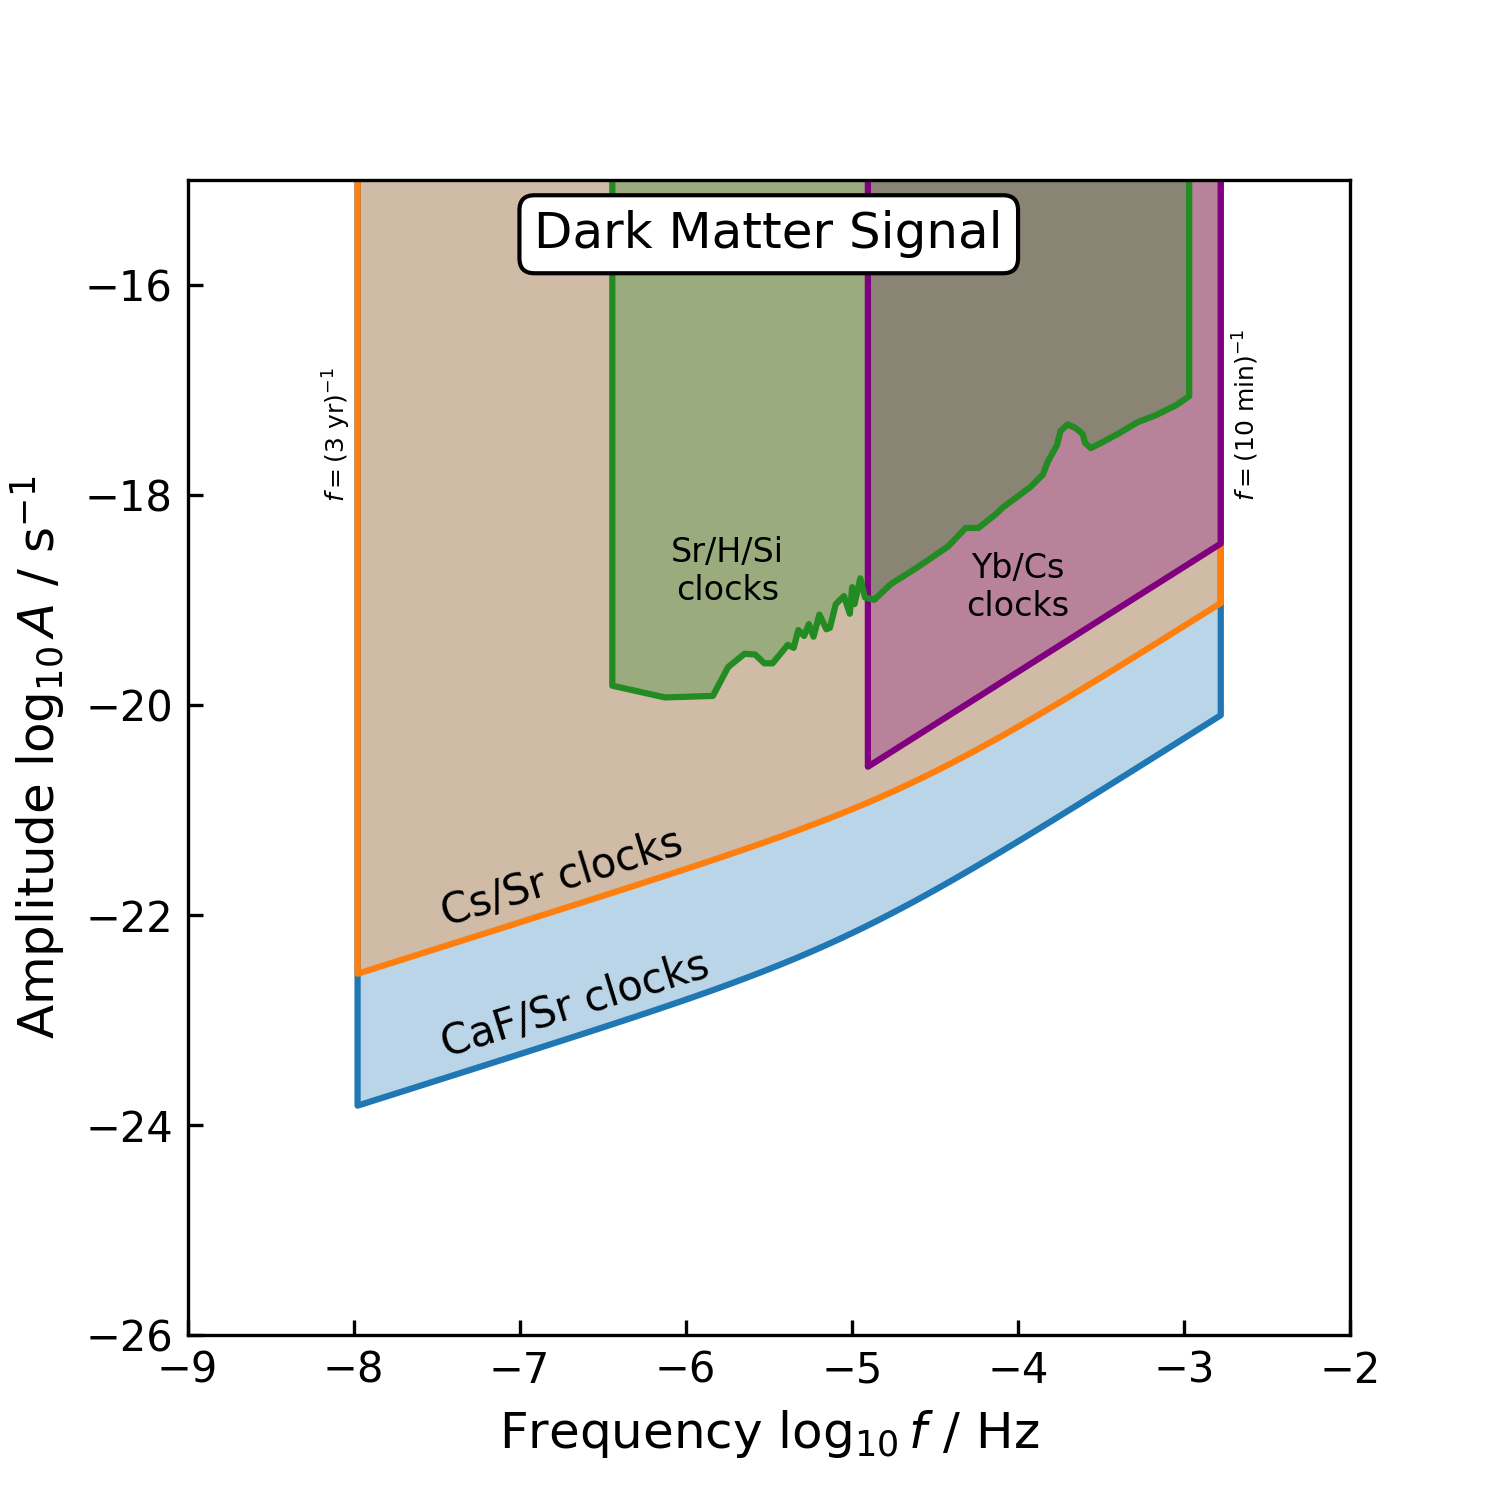
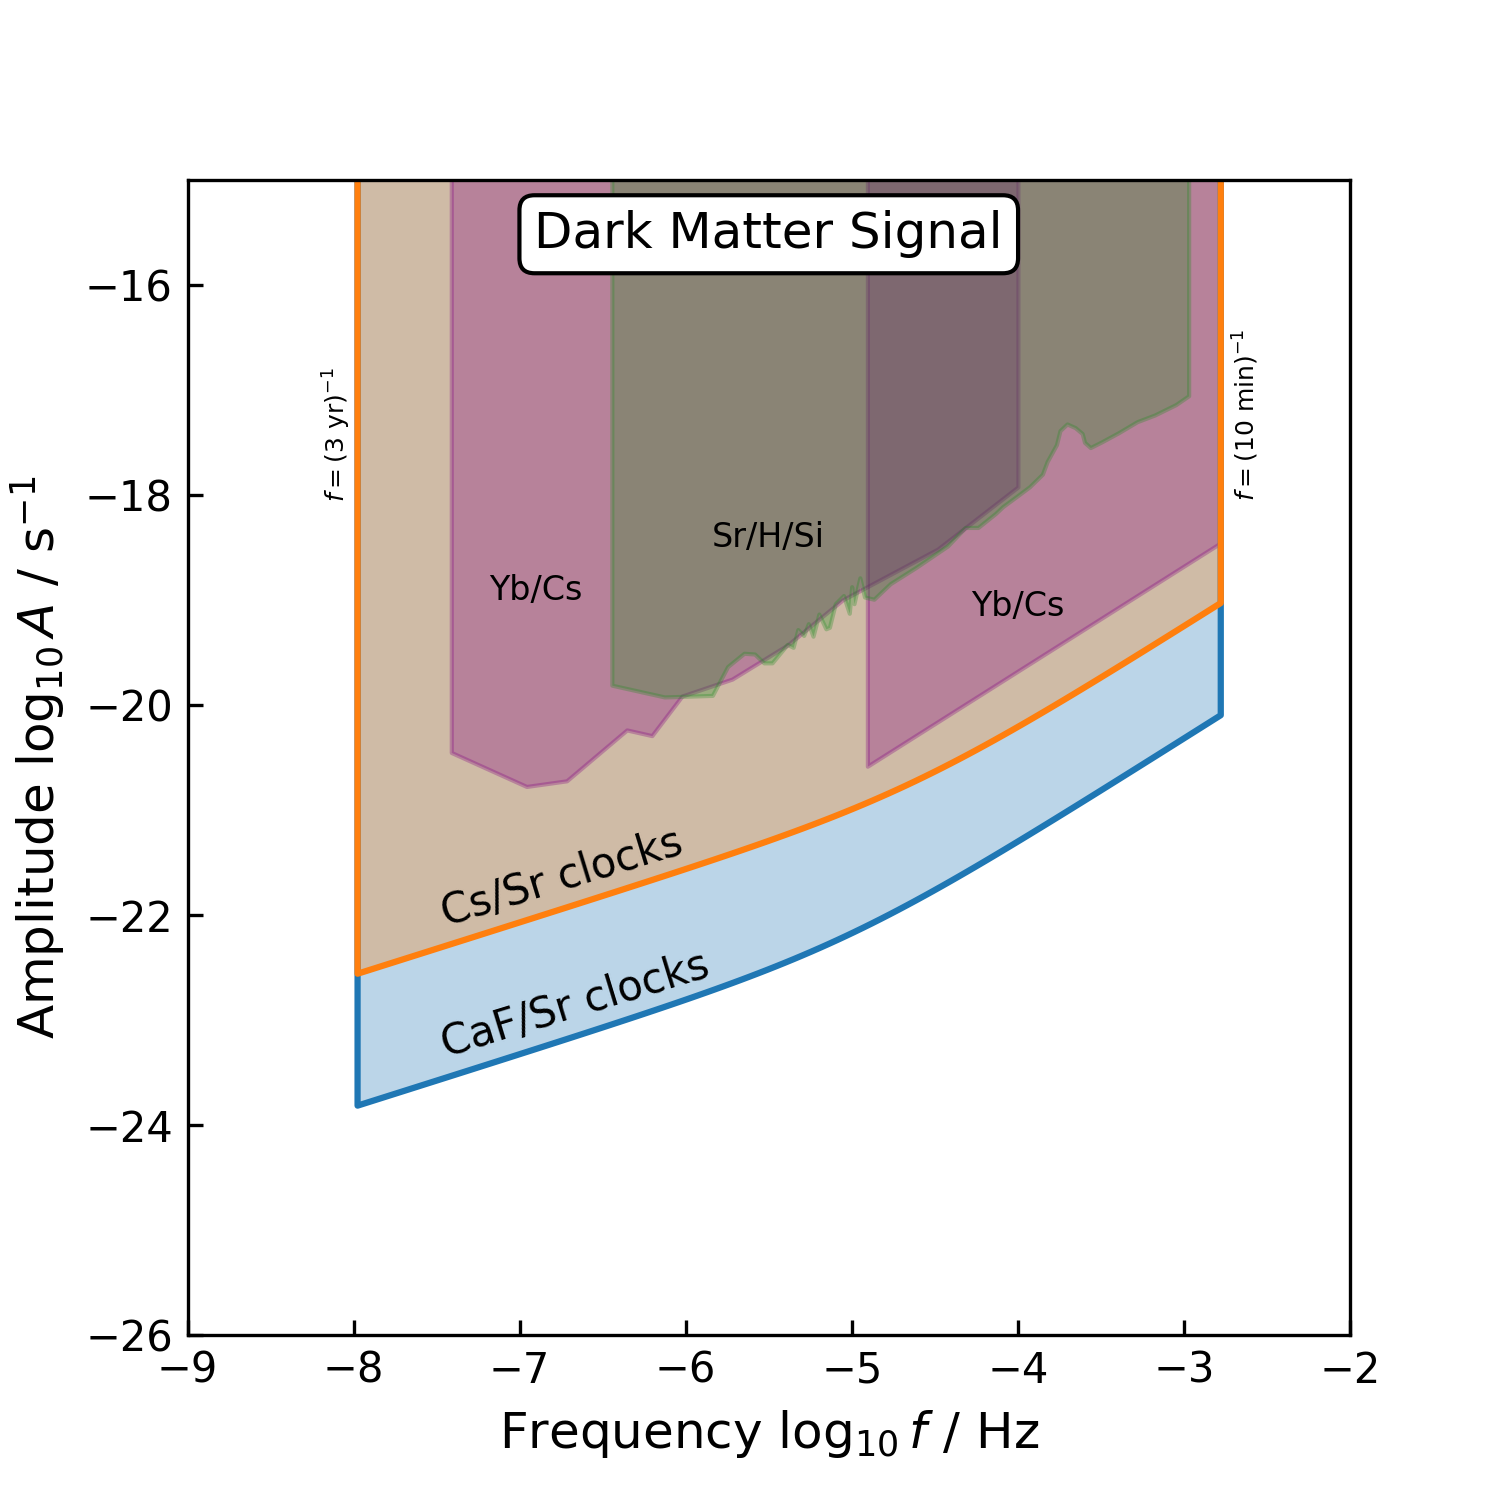
ULDM bounds
NANOGrav and Yb/Cs (Kobayashi et al)

diff --git a/plot_DM.py b/plot_DM.py
@@ -56,21 +56,48 @@ def clock_bound_ULDM(clocks, color):
 
     x,y = np.log10(m), np.log10(M / Mpl)
 
-    # Add points to the ends so the outline covers the sides
-    # This looks better than plt.vlines(),
-    # as it takes care of the corners
-    x = np.concatenate( ([x[0]], x, [x[-1]]) )
-    y = np.concatenate( ([0], y, [0]) )
-
-    plt.plot(x, y, color=color)
-    plt.fill_between(x, 0, y, alpha=0.3, color=color)
+    if clocks == 'Sherrill':
+        po.shade_below(x, y, color=color, alpha=0.3, boundary=False)
+    else:
+        po.shade_below(x, y, color=color, alpha=0.3)
     return
+
+
+# Yb/Cs
+x, y = bounds.YbCs_ULDM()
+x = np.log10(x)
+y = np.log10(y / Mpl)
+po.shade_below(x, y, 'purple', boundary=False, alpha=0.5)
+plt.text(-21.1, 5.25, "Yb/Cs", fontsize=8, ha='center')
+#plt.text(-21, 4.85, "(Kobayashi\net al)", fontsize=6, ha='center')
+
+# H/Si clocks
+x, y = bounds.HSi_ULDM()
+x = np.log10(x)
+y = np.log10(y / Mpl)
+
+po.shade_below(x, y, 'forestgreen', boundary=False, alpha=0.5)
+
+plt.text(-19.9, 4, "Sr/H/Si", fontsize=8, ha='center')
+
+# NANOGrav
+x, y = bounds.NANOGrav_ULDM()
+x = np.log10(x)
+y = np.log10(y / Mpl)
+po.shade_below(x, y, 'darkblue', boundary=False, alpha=0.5)
+plt.text(-23.1, 6, "NANOGrav", fontsize=8, ha='center')
 
 # Clocks
 clock_bound_ULDM('CaF/Sr', po.colorcycle[0])
 clock_bound_ULDM('Cs/Sr', po.colorcycle[1])
-
 clock_bound_ULDM('Sherrill', 'purple')
+
+# Text labels for clocks
+plt.text(-22, 7.5, "CaF/Sr clocks", fontsize=10, rotation=-34)
+plt.text(-22, 6.35, "Cs/Sr clocks", fontsize=10, rotation=-34)
+plt.text(-18.55, 4.25, 'Yb/Cs', ha='center', fontsize=8)
+#plt.text(-18.55, 4.1, '(Sherrill et al)', ha='center', fontsize=6)
+
 
 # CMB
 col = 'brown'
@@ -80,25 +107,7 @@ plt.contourf(X, Y, Z, levels = [0.5, 1], alpha = 0.3, colors=col)
 
 plt.text(-24.25, 6, r'CMB & LSS', rotation='vertical', fontsize=8)
 
-# H/Si clocks
-x, y = bounds.HSi_ULDM()
-x = np.log10(x)
-y = np.log10(y / Mpl)
 
-x = np.concatenate( ([x[0]], x, [x[-1]]) )
-y = np.concatenate( ([0], y, [0]) )
-
-col = 'forestgreen'
-plt.plot(x, y, color=col)
-plt.fill_between(x, -100, y, color=col, alpha=0.3)
-
-plt.text(-20.2, 4, "Sr/H/Si\nclocks", fontsize=8, ha='center')
-
-
-# Text labels for clocks
-plt.text(-22, 7.5, "CaF/Sr clocks", fontsize=10, rotation=-34)
-plt.text(-22, 6.35, "Cs/Sr clocks", fontsize=10, rotation=-34)
-plt.text(-18.65, 4.25, 'Yb/Cs\nclocks', ha='center', fontsize=8)
 
 # Microscope
 col = 'gray'
@@ -178,11 +187,10 @@ def draw_raw_clock_bound(clocks, color):
     x = np.log10(f_vals)
     y = np.log10(A_vals)
 
-    x = np.concatenate( ([x[0]], x, [x[-1]]) )
-    y = np.concatenate( ([0], y, [0]) )
-
-    plt.plot(x, y, color=color)
-    plt.fill_between(x, y, 0, alpha=0.3, color=color)
+    if clocks == 'Sherrill':
+        po.shade_above(x, y, color, alpha=0.3, boundary=False)
+    else:
+        po.shade_above(x, y, color, alpha=0.3)
     return
 
 # Clock bounds
@@ -192,21 +200,25 @@ draw_raw_clock_bound('Sherrill', 'purple')
 
 plt.text(-7.5, -23.35, "CaF/Sr clocks", fontsize=10, rotation=17)
 plt.text(-7.5, -22.1, "Cs/Sr clocks", fontsize=10, rotation=17)
-plt.text(-4, -19.15, 'Yb/Cs\nclocks', ha='center', fontsize=8)
+plt.text(-4, -19.15, 'Yb/Cs', ha='center', fontsize=8)
+
+
+# Yb/Cs bounds
+x, y = bounds.YbCs_amplitude()
+x = np.log10(x)
+y = np.log10(y)
+
+po.shade_above(x, y, 'purple', boundary=False)
+plt.text(-6.9, -19, "Yb/Cs", fontsize=8, ha='center')
+#plt.text(-7, -19.3, "Kobayashi et al", fontsize=6, ha='center')
 
 # H/Si bounds
 x, y = bounds.HSi_amplitude()
 x = np.log10(x)
 y = np.log10(y)
 
-x = np.concatenate( ([x[0]], x, [x[-1]]) )
-y = np.concatenate( ([0], y, [0]) )
-
-col = 'forestgreen'
-plt.plot(x, y, color=col)
-plt.fill_between(x, y, 100, color=col, alpha=0.3)
-
-plt.text(-5.75, -19, "Sr/H/Si\nclocks", fontsize=8, ha='center')
+po.shade_above(x, y, 'forestgreen', boundary=False)
+plt.text(-5.5, -18.5, "Sr/H/Si", fontsize=8, ha='center')
 
 # Labels etc
 plt.text(-2.72, -18, r"$f = (10~\mathrm{min})^{-1}$",
@@ -228,4 +240,4 @@ plt.text(x_pos, -15.65, "Dark Matter Signal",
 
 plt.savefig("plots/DM_A_vs_f.png", dpi=po.dpi_setting)
 
-#plt.show()
+plt.show()

diff --git a/theory/bounds.py b/theory/bounds.py
@@ -65,13 +65,12 @@ def planck(w):
 def DM_CMB(m):
     return m < 1e-24
 
-def HSi_ULDM():
-    """ H/Si clock bounds
-    https://arxiv.org/pdf/2008.08773
-    Converts to our M_eff coupling.  Returns an array of m values,
-    and an array of the corresponding M_eff values that are the bound.
+
+def load_amplitude_helper(fname):
     """
-    fname = 'theory/H-Si_data.csv'  # data file
+    Load a .csv file of m, d_m_e values.
+    Convert to M_eff.
+    """
 
     # m is in eV, d_m_e is dimensionless
     # both are the log10 of their real values
@@ -91,14 +90,13 @@ def HSi_ULDM():
     M_eff = np.sqrt(2) * Mpl / d_m_e
     return m, M_eff
 
-def HSi_amplitude():
-    """ Generalized amplitude measurement from the H/Si bounds.
-    Converts from the Meff bound to our generalized signal
+def Meff_to_amplitude(m, M_eff):
+    """ Generalized amplitude measurement bounds 
+    Converts from the m, Meff bound to our generalized signal
         delta mu / mu = A / w cos(w t)
     Returns the frequency f and corresponding A values.
     Both are in units of s^-1
     """
-    m, M_eff = HSi_ULDM()
     
     f = m / (2*PI)
     A = np.sqrt(2 * rho_DM_local) / M_eff
@@ -108,4 +106,32 @@ def HSi_amplitude():
     A *= c / hbar
 
     return f, A
+
+def HSi_ULDM():
+    """ H/Si clock bounds
+    https://arxiv.org/pdf/2008.08773
+    Converts to our M_eff coupling.  Returns an array of m values,
+    and an array of the corresponding M_eff values that are the bound.
+    """
+    return load_amplitude_helper('theory/H_Si.csv')
+
+def HSi_amplitude():
+    """
+    Converts H/Si bound to frequency and amplitude bounds.
+    """
+    m, M_eff = HSi_ULDM()
+    return Meff_to_amplitude(m, M_eff)
+
+def YbCs_ULDM():
+    """ https://arxiv.org/pdf/2212.05721 """
+    return load_amplitude_helper('theory/Yb_Cs.csv')
+
+def YbCs_amplitude():
+    m, M_eff = YbCs_ULDM()
+    return Meff_to_amplitude(m, M_eff)
+
+
+def NANOGrav_ULDM():
+    """ https://arxiv.org/abs/2306.16219 """
+    return load_amplitude_helper('theory/NANOGrav.csv')
 

diff --git a/plot_options.py b/plot_options.py
@@ -8,11 +8,13 @@
 
 import matplotlib.pyplot as plt
 
+import numpy as np
+
 # Number of grid points in the plots.
 # Around 1k looks ok and is fast.
 # Set this to a high value (~10k) for the final versions
 # of the plots.
-resolution = 5000
+resolution = 1000
 
 # Color scheme
 colorcycle = plt.rcParams['axes.prop_cycle'].by_key()['color']
@@ -23,3 +25,30 @@ figsize = (5, 5)
 dpi_setting = 300
 
 title_box_properties = dict(boxstyle='round', facecolor = "white", alpha=1.0)
+
+def shade_below(x, y, color, alpha=0.3, boundary=True):
+    """ Plot a curve, and shade below it. """
+
+    # Add points to the ends so the outline covers the sides
+    # This looks better than plt.vlines(),
+    # as it takes care of the corners
+    x = np.concatenate( ([x[0]], x, [x[-1]]) )
+    y = np.concatenate( ([0], y, [0]) )
+
+    if boundary: plt.plot(x, y, color=color)
+    plt.fill_between(x, -100, y, color=color, alpha=alpha)
+    return
+
+def shade_above(x, y, color, alpha=0.3, boundary=True):
+    """ Plot a curve, and shade above it. """
+
+    # Add points to the ends so the outline covers the sides
+    # This looks better than plt.vlines(),
+    # as it takes care of the corners
+    x = np.concatenate( ([x[0]], x, [x[-1]]) )
+    y = np.concatenate( ([0], y, [0]) )
+
+    if boundary: plt.plot(x, y, color=color)
+    plt.fill_between(x, y, 100, color=color, alpha=alpha)
+    return
+
